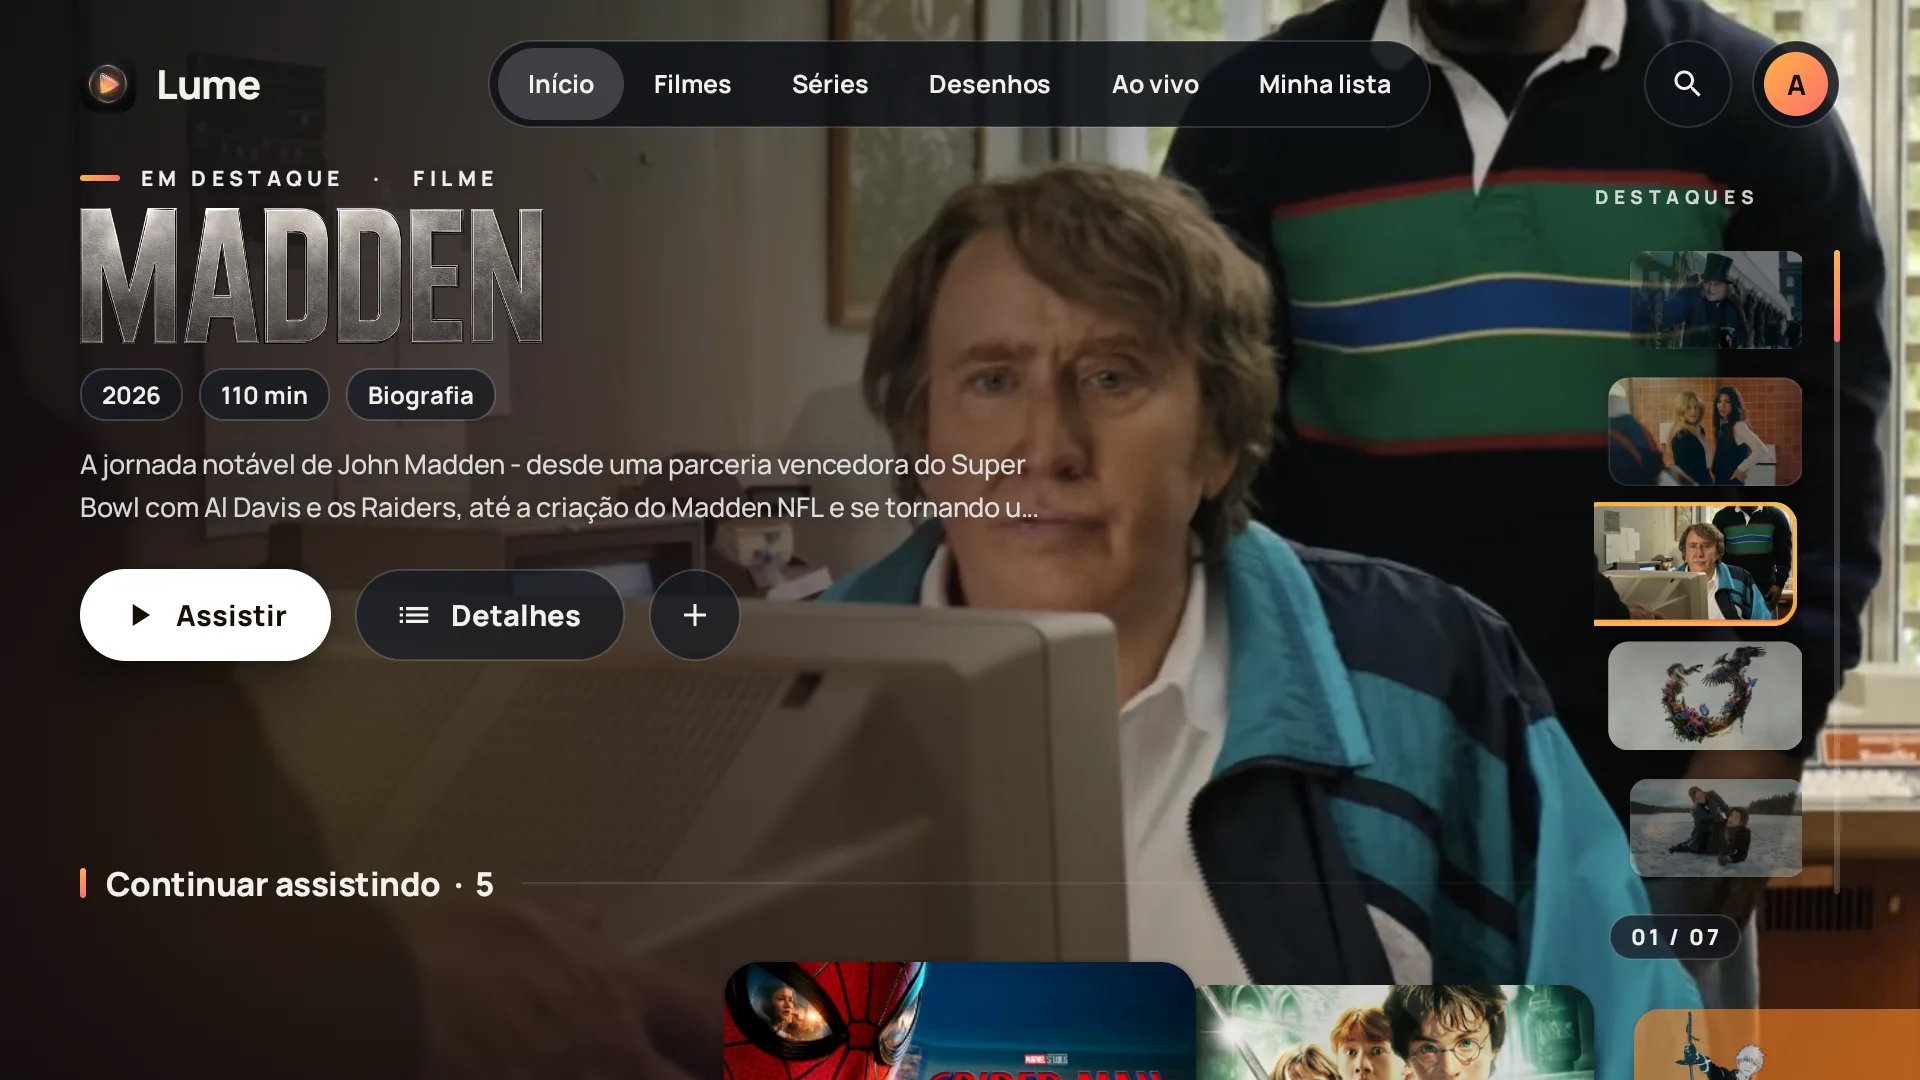
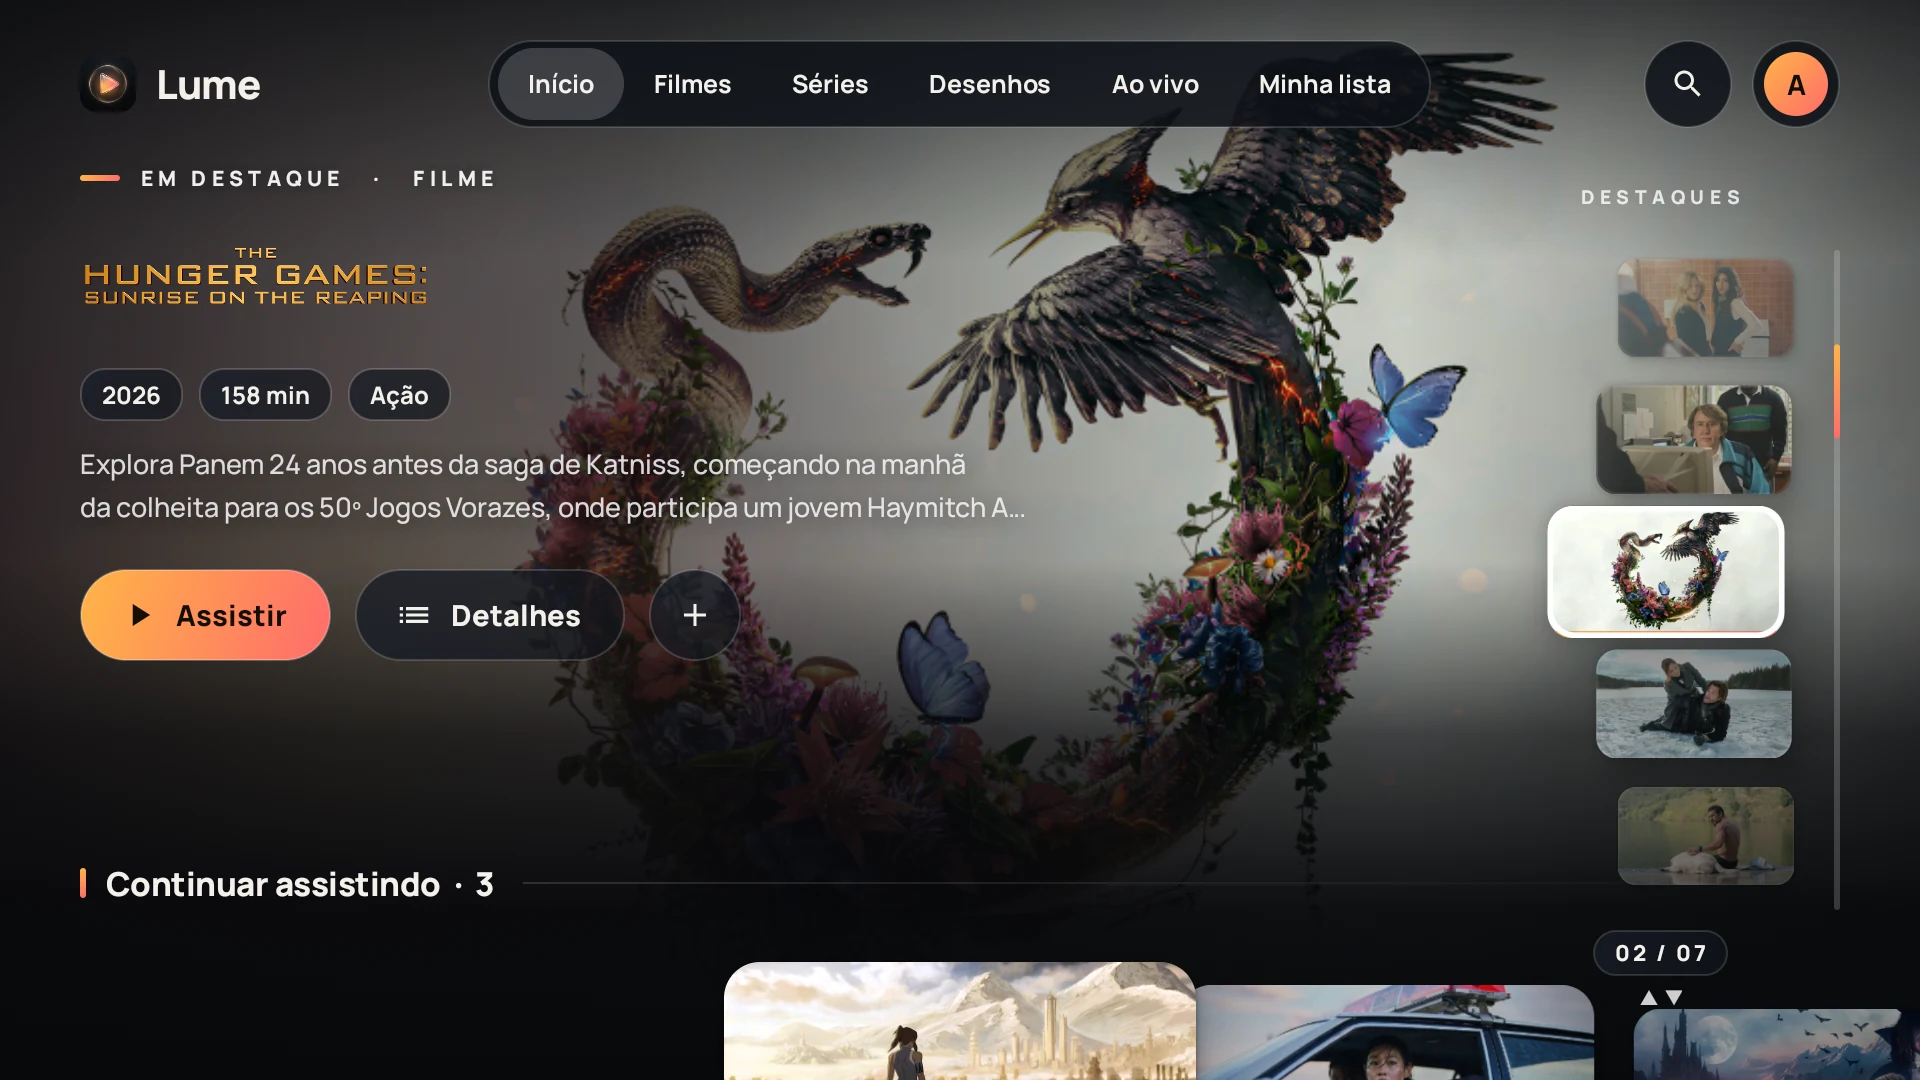
chore: atualiza print inicial com destaque real de The Hunger Games (Lume TV 2.0.1)

diff --git a/index.html b/index.html
@@ -138,7 +138,7 @@
               <div class="tv-screen">
                 <img
                   id="heroPreviewImg"
-                  src="assets/screens/inicio.webp"
+                  src="assets/screens/inicio.webp?v=2"
                   alt="Tela inicial real do Lume TV mostrando destaques de filmes, séries e navegação Liquid Glass"
                   width="1920"
                   height="1080"
@@ -153,7 +153,7 @@
           <!-- Chips flutuantes fora do conteúdo principal -->
           <div class="stage-hud">
             <div class="hud-pills" role="tablist" aria-label="Prévia rápida da interface">
-              <button type="button" class="hud-pill is-active" data-hero-screen="assets/screens/inicio.webp" data-ambilight="amber">Início</button>
+              <button type="button" class="hud-pill is-active" data-hero-screen="assets/screens/inicio.webp?v=2" data-ambilight="amber">Início</button>
               <button type="button" class="hud-pill" data-hero-screen="assets/screens/filmes.webp" data-ambilight="coral">Filmes</button>
               <button type="button" class="hud-pill" data-hero-screen="assets/screens/series.webp" data-ambilight="blue">Séries</button>
               <button type="button" class="hud-pill" data-hero-screen="assets/screens/player.webp" data-ambilight="gold">Player</button>
@@ -298,7 +298,7 @@
                 <div class="tv-screen">
                   <img
                     id="showcaseImg"
-                    src="assets/screens/inicio.webp"
+                    src="assets/screens/inicio.webp?v=2"
                     alt="Tela inicial real do Lume TV com destaques e menu lateral"
                     width="1920"
                     height="1080"
@@ -324,7 +324,7 @@
 
           <div class="showcase-thumbs" aria-label="Miniaturas das telas reais">
             <button type="button" class="thumb-btn is-active" data-index="0" aria-label="Ver tela Início">
-              <img src="assets/screens/inicio.webp" alt="Miniatura tela inicial" loading="lazy">
+              <img src="assets/screens/inicio.webp?v=2" alt="Miniatura tela inicial" loading="lazy">
             </button>
             <button type="button" class="thumb-btn" data-index="1" aria-label="Ver tela Fileiras">
               <img src="assets/screens/fileiras.webp" alt="Miniatura fileiras" loading="lazy">
@@ -927,7 +927,7 @@
     <button type="button" class="lightbox-close" id="lightboxClose" aria-label="Fechar tela cheia">✕</button>
     <button type="button" class="lightbox-nav lightbox-prev" id="lightboxPrev" aria-label="Tela anterior">‹</button>
     <figure class="lightbox-figure">
-      <img id="lightboxImg" src="assets/screens/inicio.webp" alt="Tela inicial real do Lume TV">
+      <img id="lightboxImg" src="assets/screens/inicio.webp?v=2" alt="Tela inicial real do Lume TV">
       <figcaption id="lightboxCaption"></figcaption>
     </figure>
     <button type="button" class="lightbox-nav lightbox-next" id="lightboxNext" aria-label="Próxima tela">›</button>

diff --git a/js/app.js b/js/app.js
@@ -10,7 +10,7 @@
   // 1. Dados das 7 telas reais
   const SCREENS = [
     {
-      src: "assets/screens/inicio.webp",
+      src: "assets/screens/inicio.webp?v=2",
       badge: "TELA REAL 01 / 07",
       title: "Início & Destaques Cinematográficos",
       desc: "Abertura instantânea com carrossel em destaque, bordas luminosas nítidas e acesso direto ao que você estava assistindo.",
